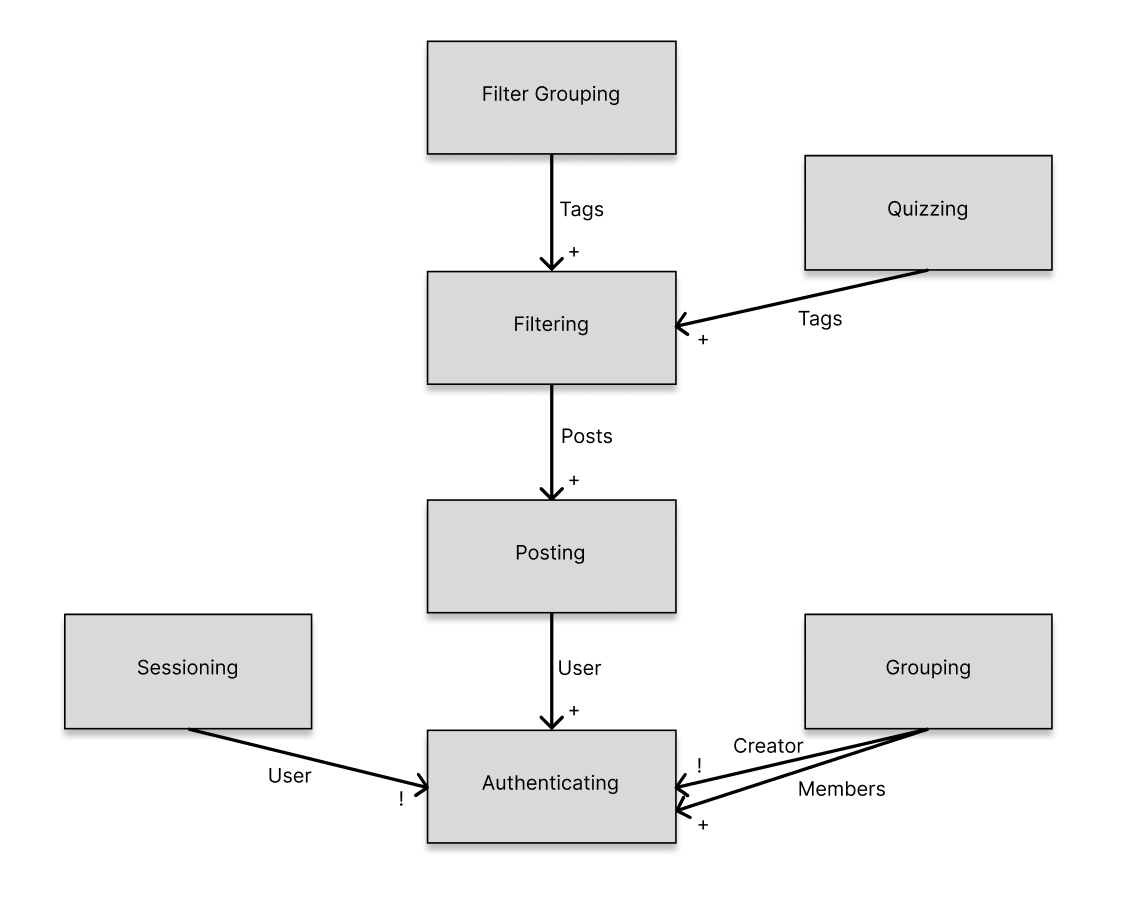
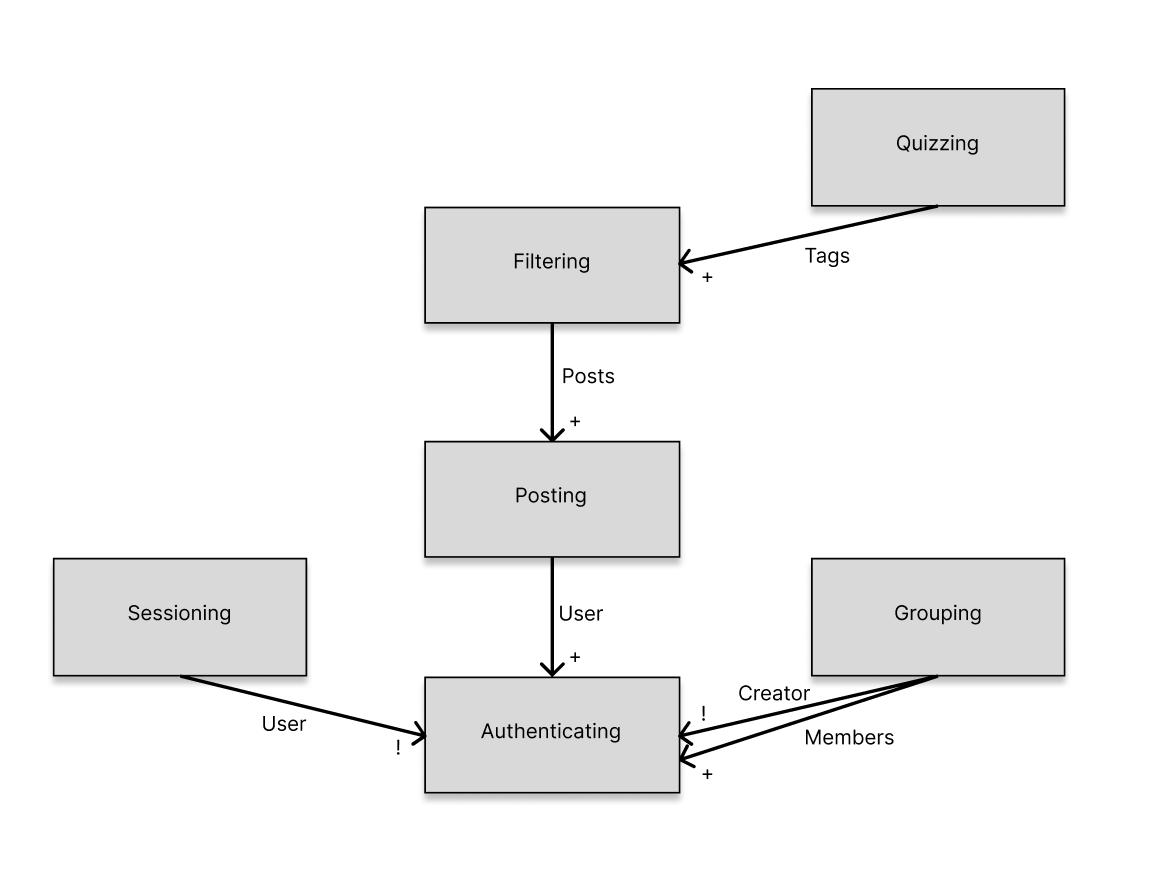
A4.

Changed region(s): [[0.0308, 0.031, 0.9534, 0.9599], [0.6766, 0.0929, 0.9534, 0.2167], [0.6766, 0.2167, 0.9227, 0.3716]]

diff --git a/docs/assignments/assignment4.md b/docs/assignments/assignment4.md
@@ -1,8 +1,8 @@
 ---
-title: "Assignment 4: Backend Design and Implementation (Alpha)"
+title: "Assignment 4: Backend Design and Implementation"
 layout: doc
 ---
-# Assignment 4: Backend Design and Implementation (Alpha)
+# Assignment 4: Backend Design and Implementation
 
 ### Table of Contents
 1. [Concept States](#concept-states)
@@ -27,18 +27,17 @@ active: set Session
 user: active --> one User
 ```
 
-3. ```Posting[User,Tags]```
+3. ```Posting[User]```
 
 **State:** 
 ```
-posts: set Post
-creator: one User | set User
-caption: Post --> one String
-content: Post --> set Media
-tags: Post --> set Tag
-shared: Post -> set User
-* Media could be a picture or video
+posts: set Post 
+creator: one User
+content: one String
+options?: PostOptions
+tags: string[]
 ```
+*PostOptions consists of backgroundColor?: String
 
 4. ```Grouping[User]```
 
@@ -46,40 +45,37 @@ shared: Post -> set User
 ```
 groups: set Group
 groupName: Group --> one String
-creator: Group --> one User
+author: Group --> one User
 members: Group --> set User
+
 ```
 
 5. ```Filtering[Posts]```
 
 **State:** 
 ```
-tags: set String
-name: Tag --> one String
-posts: set Post
+author: one String
+name: one String
 ```
 
-6. ```FilterGrouping[Tags]```
-
-**State:** 
-```
-modes: set Mode
-name: Mode --> one String
-tags: Mode --> set Tag
-```
-
-7. ```Quizzing[Tags]```
+6. ```Quizzing```
 
 **State:** 
 ```
 quizzes: set Quiz
-tags: Quiz --> set Tag
+author: one User
+tags: Quiz --> set String
 question: Quiz --> one String
-options: Quiz --> set Option
-answer: Quiz --> one Option
+options: Quiz --> set String
+answer: Quiz --> one String
 ```
 ## Data Model Diagram
 ![Data Model Diagram](/assets/ModelDiagram.png)
+
+## Reflection
+Building the backend for this project made me rethink some of my original design ideas, especially around filtering. Since filtering was tied to posts, I had to figure out how to structure it properly so that both concepts were separated. Instead, I went with a simpler approach: adding tags directly into the posting system. This way, I didn’t have to create a whole separate labeling system, which made everything easier to manage. I also decided to remove the implementation of filter groupings as I feel that I achieved the same goal through the use of the filtering concept. 
+
+On the technical side, I ran into some issues with converting strings to ObjectId, which was needed to get data flowing properly from util.ts to routes.ts. I also had to add a getter to make sure the data from MongoDB showed up correctly on the frontend (localhost:3000). One more thing I had to keep in mind was using consistent variable names across all files, especially _id in concepting.ts.
 
 ## Backend Links
 [Vercel](https://a4-eosin.vercel.app/)

diff --git a/docs/assignments/assignment3.md b/docs/assignments/assignment3.md
@@ -125,9 +125,8 @@ delete(g: Group)
 
 **State:** 
 ```
-Tags: set String
-Name: Tag --> one String
-Posts: set Post
+author: one String
+name: one String
 ```
 **Actions:**
 ```
@@ -143,7 +142,7 @@ filter(tags: Tags, all: Posts, out p: Posts)
 
 6. FilterGrouping[Tags]
 
-**Purpose:** Allows user to create different filter groupings (modes) and view them separately.
+**Purpose:** Allows user to create different groups of filters. This way, users can separate different filters for different purposes, such as the work and life mode. 
 
 **Principle:** A user can choose to create their own mode by selecting a name and tags for that mode.
 
